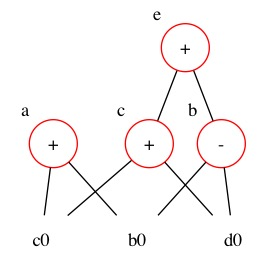
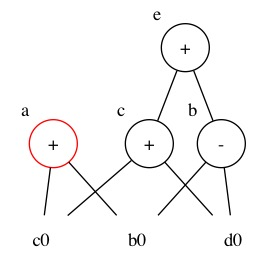
On detect les instruction morte maintenant

diff --git a/TP5/PrintExpressionDAGVisitor.java b/TP5/PrintExpressionDAGVisitor.java
@@ -11,10 +11,14 @@ public class PrintExpressionDAGVisitor implements ParserVisitor
   HashSet<String> m_nodes = new HashSet<String>();
   HashSet<String> m_leafs = new HashSet<String>();
   HashSet<String> m_links = new HashSet<String>();
+
   Vector<String> v_nodes = new Vector<String>();
   Vector<Vector<String>> v_print = new Vector<Vector<String>>();
   Vector<Vector<String>> compare_print = new Vector<Vector<String>>();
   HashMap<Integer, String> myMap = new HashMap<Integer, String>();
+
+  Vector<String> lives = new Vector<String>();
+  Vector<String> enfants = new Vector<String>();
 
   Integer counter = 0;
   String m_outputFileName = null;
@@ -63,7 +67,6 @@ public class PrintExpressionDAGVisitor implements ParserVisitor
       String enf2 = i.get(3);
       String identiqueAdd = "";
       Boolean isIdentique = false;
-      
 
       indexLoop2 = 0;
       for(Vector<String> j: compare_print) {
@@ -83,14 +86,22 @@ public class PrintExpressionDAGVisitor implements ParserVisitor
       }
 
       if(isIdentique) {
-        m_writer.println("  " + i.get(4) + " [label=\"" + i.get(1) + "\", xlabel=\"" + i.get(0) + ", " + identiqueAdd  + "\", shape=\"circle\"]");
+        if(!lives.contains(i.get(0)) && !enfants.contains(i.get(0))) {
+          m_writer.println("  " + i.get(4) + " [label=\"" + i.get(1) + "\", xlabel=\"" + i.get(0) + ", " + identiqueAdd  + "\", shape=\"circle\"" + ", color=\"red\"]");
+        }
+        else{
+           m_writer.println("  " + i.get(4) + " [label=\"" + i.get(1) + "\", xlabel=\"" + i.get(0) + ", " + identiqueAdd  + "\", shape=\"circle\"]");
+        }
       }
       else if(i.get(4).equals(String.valueOf(indexToSkip))){
-        //System.out.println(i.get(4));
-        //System.out.println(i);
       }
       else {
-        m_writer.println("  " + i.get(4) + " [label=\"" + i.get(1) + "\", xlabel=\"" + i.get(0) + "\", shape=\"circle\"" + ", color=\"red\"]");
+        if(!lives.contains(i.get(0)) && !enfants.contains(i.get(0))) {
+          m_writer.println("  " + i.get(4) + " [label=\"" + i.get(1) + "\", xlabel=\"" + i.get(0) + "\", shape=\"circle\"" + ", color=\"red\"]");
+        }
+        else {
+          m_writer.println("  " + i.get(4) + " [label=\"" + i.get(1) + "\", xlabel=\"" + i.get(0) + "\", shape=\"circle\"]");
+        }
       }
       indexLoop++;
     }
@@ -130,6 +141,9 @@ public class PrintExpressionDAGVisitor implements ParserVisitor
   // Valeur de retour: On ne retourne rien aux parents
   public Object visit(ASTLive node, Object data) {
   	node.childrenAccept(this, null);
+    
+    lives = node.getLive();
+
   	return null;
   }
 
@@ -258,6 +272,7 @@ public class PrintExpressionDAGVisitor implements ParserVisitor
   public Object visit(ASTIdentifier node, Object data) {
     // TODO:: Présentement on imprime l'identifiant sans index, "a" au lieu de "a0"
     // Est-ce que ca peut causer des problèmes?
+    enfants.add(node.getValue());
     if(v_nodes.contains(node.getValue())) {
       return node.getValue();
     }

diff --git a/TP5/gen/PrintExpressionDAGVisitor.java b/TP5/gen/PrintExpressionDAGVisitor.java
@@ -11,10 +11,14 @@ public class PrintExpressionDAGVisitor implements ParserVisitor
   HashSet<String> m_nodes = new HashSet<String>();
   HashSet<String> m_leafs = new HashSet<String>();
   HashSet<String> m_links = new HashSet<String>();
+
   Vector<String> v_nodes = new Vector<String>();
   Vector<Vector<String>> v_print = new Vector<Vector<String>>();
   Vector<Vector<String>> compare_print = new Vector<Vector<String>>();
   HashMap<Integer, String> myMap = new HashMap<Integer, String>();
+
+  Vector<String> lives = new Vector<String>();
+  Vector<String> enfants = new Vector<String>();
 
   Integer counter = 0;
   String m_outputFileName = null;
@@ -63,7 +67,6 @@ public class PrintExpressionDAGVisitor implements ParserVisitor
       String enf2 = i.get(3);
       String identiqueAdd = "";
       Boolean isIdentique = false;
-      
 
       indexLoop2 = 0;
       for(Vector<String> j: compare_print) {
@@ -83,14 +86,22 @@ public class PrintExpressionDAGVisitor implements ParserVisitor
       }
 
       if(isIdentique) {
-        m_writer.println("  " + i.get(4) + " [label=\"" + i.get(1) + "\", xlabel=\"" + i.get(0) + ", " + identiqueAdd  + "\", shape=\"circle\"]");
+        if(!lives.contains(i.get(0)) && !enfants.contains(i.get(0))) {
+          m_writer.println("  " + i.get(4) + " [label=\"" + i.get(1) + "\", xlabel=\"" + i.get(0) + ", " + identiqueAdd  + "\", shape=\"circle\"" + ", color=\"red\"]");
+        }
+        else{
+           m_writer.println("  " + i.get(4) + " [label=\"" + i.get(1) + "\", xlabel=\"" + i.get(0) + ", " + identiqueAdd  + "\", shape=\"circle\"]");
+        }
       }
       else if(i.get(4).equals(String.valueOf(indexToSkip))){
-        //System.out.println(i.get(4));
-        //System.out.println(i);
       }
       else {
-        m_writer.println("  " + i.get(4) + " [label=\"" + i.get(1) + "\", xlabel=\"" + i.get(0) + "\", shape=\"circle\"" + ", color=\"red\"]");
+        if(!lives.contains(i.get(0)) && !enfants.contains(i.get(0))) {
+          m_writer.println("  " + i.get(4) + " [label=\"" + i.get(1) + "\", xlabel=\"" + i.get(0) + "\", shape=\"circle\"" + ", color=\"red\"]");
+        }
+        else {
+          m_writer.println("  " + i.get(4) + " [label=\"" + i.get(1) + "\", xlabel=\"" + i.get(0) + "\", shape=\"circle\"]");
+        }
       }
       indexLoop++;
     }
@@ -130,6 +141,9 @@ public class PrintExpressionDAGVisitor implements ParserVisitor
   // Valeur de retour: On ne retourne rien aux parents
   public Object visit(ASTLive node, Object data) {
   	node.childrenAccept(this, null);
+    
+    lives = node.getLive();
+
   	return null;
   }
 
@@ -258,6 +272,7 @@ public class PrintExpressionDAGVisitor implements ParserVisitor
   public Object visit(ASTIdentifier node, Object data) {
     // TODO:: Présentement on imprime l'identifiant sans index, "a" au lieu de "a0"
     // Est-ce que ca peut causer des problèmes?
+    enfants.add(node.getValue());
     if(v_nodes.contains(node.getValue())) {
       return node.getValue();
     }
